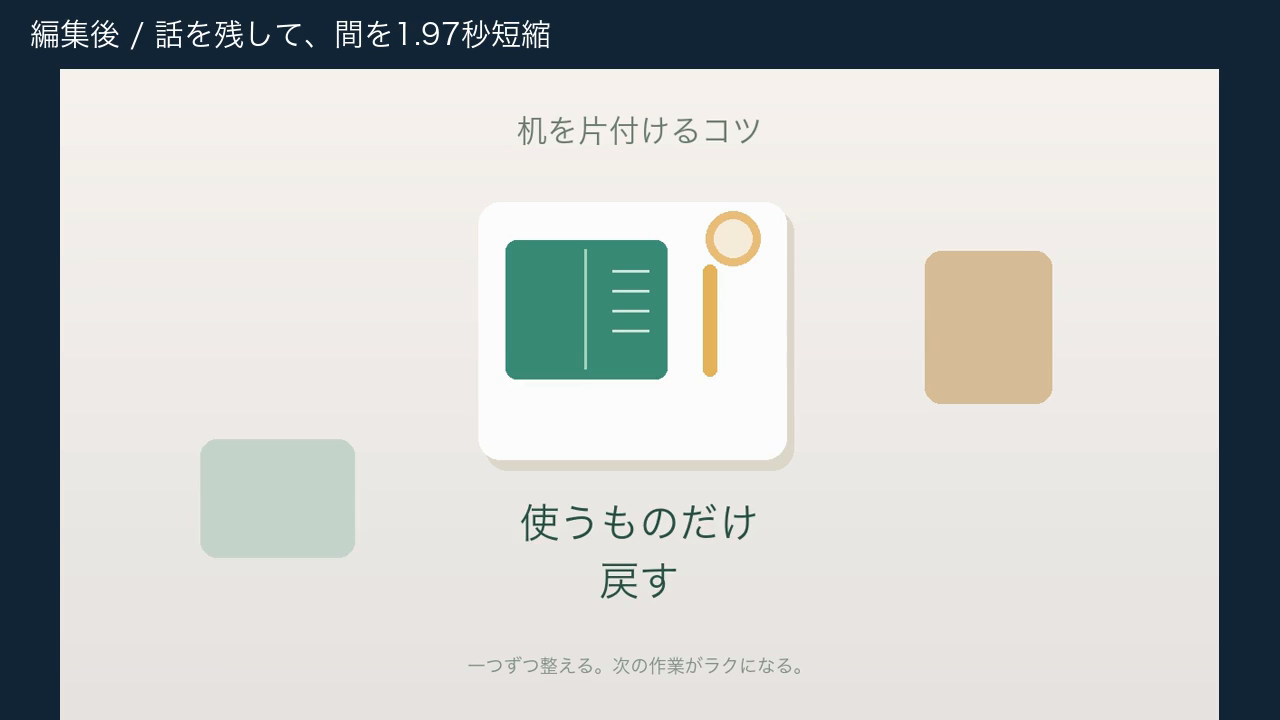
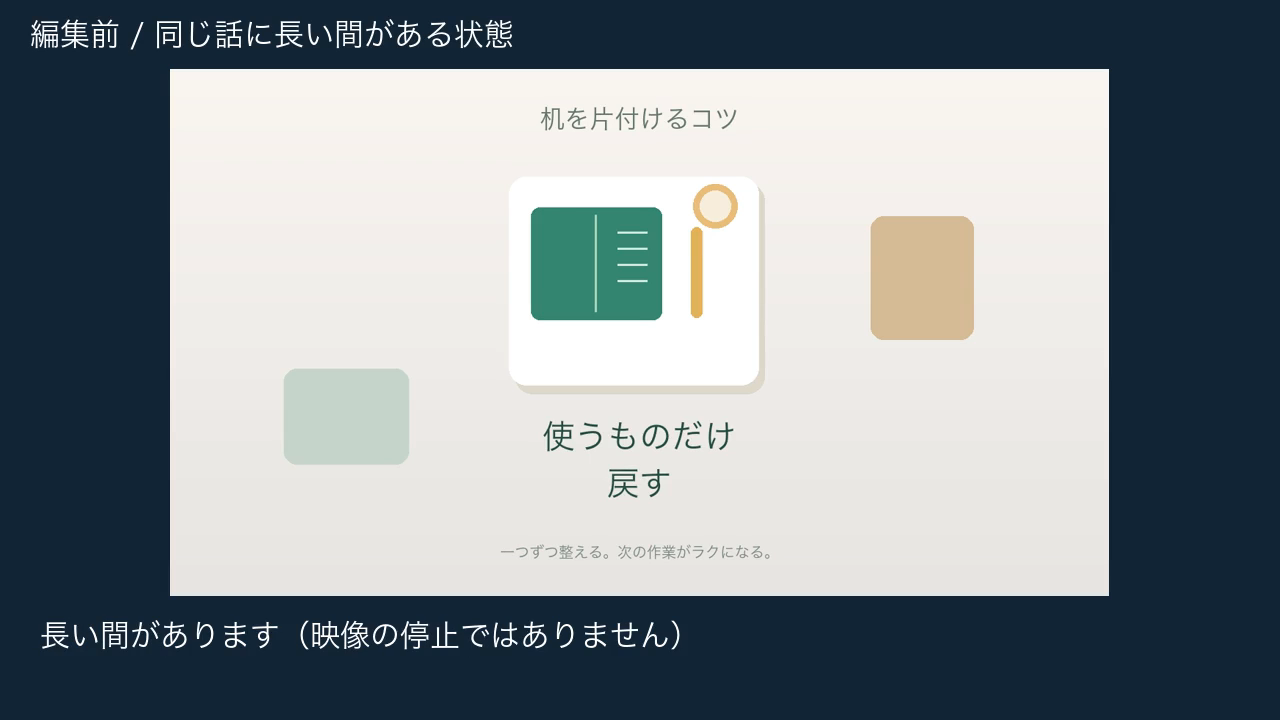
fix(demo): rebuild overview joins and retain complete speech

diff --git a/scripts/build_platform_demos.py b/scripts/build_platform_demos.py
@@ -76,7 +76,7 @@ def card(path, title, subtitle, lines=(), size=(1280, 720), font=None, banner='V
     im.save(path)
 
 
-def make_segment(source, target, log, duration=None, start=0, still=False, label=None, font=None):
+def make_segment(source, target, log, duration=None, start=0, still=False, label=None, font=None, cues=()):
     inputs = ['-loop', '1', '-framerate', '30', '-t', str(duration), '-i', str(source)] if still else ['-ss', str(start), '-i', str(source)]
     if still:
         inputs += ['-f', 'lavfi', '-t', str(duration), '-i', 'anullsrc=r=48000:cl=stereo']
@@ -85,7 +85,7 @@ def make_segment(source, target, log, duration=None, start=0, still=False, label
     filters = ['-vf', vf+','+tail]
     video_map = '0:v:0'
     if label:
-        vf = 'scale=1280:652:force_original_aspect_ratio=decrease,pad=1280:720:(ow-iw)/2:68:color=0x122536,fps=30,setsar=1'
+        vf = f'scale=1280:{528 if cues else 652}:force_original_aspect_ratio=decrease,pad=1280:720:(ow-iw)/2:68:color=0x122536,fps=30,setsar=1'
         overlay = target.with_suffix('.png')
         im = Image.new('RGBA',(1280,720),(0,0,0,0)); draw = ImageDraw.Draw(im)
         draw.rectangle((0,0,1280,68), fill='#122536')
@@ -93,8 +93,47 @@ def make_segment(source, target, log, duration=None, start=0, still=False, label
         inputs += ['-loop','1','-framerate','30','-t',str(duration),'-i',str(overlay)]
         filters = ['-filter_complex',f'[0:v]{vf}[base];[base][1:v]overlay=0:0:shortest=1:format=auto,{tail}[v]']
         video_map = '[v]'
+        if cues:
+            chain = f'[0:v]{vf}[base];[base][1:v]overlay=0:0:shortest=1:format=auto[c0]'
+            for index, cue in enumerate(cues):
+                tile = target.with_name(f'{target.stem}-cue-{index}.png')
+                im = Image.new('RGBA',(1280,720),(0,0,0,0)); draw=ImageDraw.Draw(im)
+                draw.rectangle((0,604,1280,720),fill='#122536')
+                text = '\n'.join(textwrap.wrap(cue['text'], width=38 if any(ord(c)>127 for c in cue['text']) else 68))
+                draw.multiline_text((40,619),text,font=display_font(30,font),fill='white',spacing=8)
+                im.save(tile)
+                inputs += ['-loop','1','-framerate','30','-t',str(duration),'-i',str(tile)]
+                chain += f";[c{index}][{index+2}:v]overlay=0:0:shortest=1:format=auto:enable='gte(t,{cue['start']})*lt(t,{cue['end']})'[c{index+1}]"
+            filters=['-filter_complex',chain+f';[c{len(cues)}]{tail}[v]']
     run(['ffmpeg', '-hide_banner', '-nostdin', '-y', *inputs, '-t', str(duration), '-map', video_map, '-map', '1:a:0' if still else '0:a:0', *filters, '-af', 'aresample=48000', '-c:v', 'libx264', '-preset', 'medium', '-crf', '20', '-c:a', 'aac', '-b:a', '192k', '-ar', '48000', '-ac', '2', '-movflags', '+faststart', str(target)], log)
 
+
+
+def join_segments(clips, target, log):
+    """Decode segments onto an exact frame/sample grid and encode one MP4 stream.
+
+    Stream-copying independently encoded H.264/AAC files preserves incompatible
+    codec state and AAC priming at joins; a full decode alone misses browser issues.
+    """
+    inputs, filters, ordered = [], [], []
+    total_frames = 0
+    for index, clip in enumerate(clips):
+        info = probe(clip)
+        video = next(row for row in info['streams'] if row['codec_type']=='video')
+        frames = int(video['nb_frames'])
+        duration = frames/30
+        total_frames += frames
+        inputs += ['-i',str(clip)]
+        filters += [f'[{index}:v]trim=end_frame={frames},setpts=N/(30*TB),setsar=1[v{index}]',
+                    f'[{index}:a]aresample=48000,apad,atrim=duration={duration},asetpts=N/SR/TB[a{index}]']
+        ordered += [f'[v{index}][a{index}]']
+    filters.append(''.join(ordered)+f'concat=n={len(clips)}:v=1:a=1[v][a]')
+    run(['ffmpeg','-hide_banner','-nostdin','-y',*inputs,'-filter_complex',';'.join(filters),
+         '-map','[v]','-map','[a]','-t',str(total_frames/30),'-r','30','-fps_mode','cfr',
+         '-c:v','libx264','-profile:v','high','-level:v','4.0','-pix_fmt','yuv420p','-preset','medium','-crf','20',
+         '-color_primaries','bt709','-color_trc','bt709','-colorspace','bt709',
+         '-c:a','aac','-b:a','192k','-ar','48000','-ac','2','-movflags','+faststart',str(target)],log)
+    return total_frames
 
 
 def build(sample, out, docs, font=None, youtube_session=None, tiktok_session=None, language=None):
@@ -163,30 +202,36 @@ def build(sample, out, docs, font=None, youtube_session=None, tiktok_session=Non
     for image, key in [(intro, 'intro'), (command, 'command'), (end, 'end')]:
         card(image, *content[key], font=chosen_font, banner=content['banner'])
     # Anchor the matched excerpt to the actual frame-mapped sentence boundary.
-    excerpt_start = max(yt_mapping['sequence'][0]['source_start'], yt_mapping['sequence'][0]['source_end']-1.32)
-    excerpt_end = min(yt_mapping['sequence'][1]['source_end'], yt_mapping['sequence'][1]['source_start']+1.48)
+    excerpt_start = yt_mapping['sequence'][0]['source_start']
+    excerpt_end = yt_mapping['sequence'][-1]['source_end']
     before_duration = excerpt_end-excerpt_start
     after_duration = before_duration-removed_gap
+    script = provenance['voice']['script']
+    before_cues = [{'start':first[0]['start']-excerpt_start,'end':first[-1]['end']-excerpt_start,'text':script[0]},
+                   {'start':first[-1]['end']-excerpt_start,'end':words[split+1]['start']-excerpt_start,'text':'長い間があります（映像の停止ではありません）' if language=='ja' else 'Long pause in the source (not frozen playback)'},
+                   {'start':words[split+1]['start']-excerpt_start,'end':words[-1]['end']-excerpt_start,'text':script[1]}]
+    after_cues = [{'start':first[0]['start']-excerpt_start,'end':first[-1]['end']-excerpt_start,'text':script[0]},
+                  {'start':words[split+1]['start']-excerpt_start-removed_gap,'end':words[-1]['end']-excerpt_start-removed_gap,'text':script[1]}]
     segments = [
-        (intro, 2, 0, True, None),
-        (normalized, before_duration, excerpt_start, False, content['before']),
-        (yt, after_duration, excerpt_start-yt_mapping['sequence'][0]['source_start'], False, content['after'].format(gap=removed_gap)),
-        (command, 3, 0, True, None),
-        (out/f'tiktok-demo-{language}.mp4', float(vertical['duration']), 0, False, content['portrait']),
-        (end, 2.5, 0, True, None),
+        (intro, 2, 0, True, None, ()),
+        (normalized, before_duration, excerpt_start, False, content['before'], before_cues),
+        (yt, after_duration, excerpt_start-yt_mapping['sequence'][0]['source_start'], False, content['after'].format(gap=removed_gap), after_cues),
+        (command, 3, 0, True, None, ()),
+        (out/f'tiktok-demo-{language}.mp4', float(vertical['duration']), 0, False, content['portrait'], ()),
+        (end, 2.5, 0, True, None, ()),
     ]
     clips = []
-    for i,(media,dur,start,still,label) in enumerate(segments):
-        target=out/f'part-{i}.mp4'; make_segment(media,target,out/f'part-{i}.log',dur,start,still,label,chosen_font); clips.append(target)
-    concat = out/'concat.txt'
-    concat.write_text(''.join(f"file '{p.name}'\n" for p in clips))
+    for i,(media,dur,start,still,label,cues) in enumerate(segments):
+        target=out/f'part-{i}.mp4'; make_segment(media,target,out/f'part-{i}.log',dur,start,still,label,chosen_font,cues); clips.append(target)
     overview = out/f'youtube-demo-{language}.mp4'
-    run(['ffmpeg','-hide_banner','-nostdin','-y','-f','concat','-safe','0','-i',str(concat),'-c','copy','-movflags','+faststart',str(overview)],out/'concat.log')
+    expected_frames = join_segments(clips, overview, out/'concat.log')
     outputs={}
     for name,path,dims in [('youtube',overview,(1280,720)),('tiktok',out/f'tiktok-demo-{language}.mp4',(1080,1920)),('youtube-result',out/f'youtube-result-{language}.mp4',(1280,720))]:
         info=probe(path); v=next(s for s in info['streams'] if s['codec_type']=='video')
         if (v['width'],v['height'])!=dims or v['r_frame_rate']!='30/1' or v.get('sample_aspect_ratio')!='1:1' or any(v.get(k)!='bt709' for k in ['color_space','color_transfer','color_primaries']) or not any(s['codec_type']=='audio' and s['codec_name']=='aac' for s in info['streams']):
             raise ValueError(f'{name}: format check failed')
+        if name=='youtube' and (int(v['nb_frames'])!=expected_frames or abs(float(v.get('start_time',0)))>.001):
+            raise ValueError('Overview frame count or zero-based timeline check failed')
         run(['ffmpeg','-hide_banner','-nostdin','-v','error','-i',str(path),'-f','null','-'],out/f'{name}-decode.log')
         outputs[name]={'filename':path.name,'sha256':fingerprint(path)['sha256'],'duration':float(info['format']['duration']),'dimensions':dims,'full_decode':'pass'}
         if name!='youtube-result':
@@ -195,7 +240,7 @@ def build(sample, out, docs, font=None, youtube_session=None, tiktok_session=Non
     palette=out/'palette.png'
     run(['ffmpeg','-hide_banner','-nostdin','-y','-i',str(overview),'-vf','fps=3,scale=480:-2:flags=lanczos,palettegen=max_colors=48',str(palette)],out/'palette.log')
     run(['ffmpeg','-hide_banner','-nostdin','-y','-i',str(overview),'-i',str(palette),'-filter_complex','[0:v]fps=3,scale=480:-2:flags=lanczos[x];[x][1:v]paletteuse=dither=bayer:bayer_scale=4',str(docs/'youtube-preview.gif')],out/'gif.log')
-    result={'language':language,'source_sha256':provenance['source_sha256'],'source_kind':'synthetic','font_sha256':fingerprint(chosen_font)['sha256'] if chosen_font else None,'pause_removed_seconds':removed_gap,'retained_words':{mode: result['retained_words'] for mode, result in renderings.items()},'comparison_source_interval':[excerpt_start,excerpt_end],'outputs':outputs,'human_listening':'not_performed','fcp_gui':'not_performed','platform_playback':'not_performed','screen_recording':False}
+    result={'language':language,'source_sha256':provenance['source_sha256'],'source_kind':'synthetic','font_sha256':fingerprint(chosen_font)['sha256'] if chosen_font else None,'pause_removed_seconds':removed_gap,'retained_words':{mode: result['retained_words'] for mode, result in renderings.items()},'comparison_source_interval':[excerpt_start,excerpt_end],'overview_join':'single_encode_frame_sample_grid','overview_frames':expected_frames,'outputs':outputs,'human_listening':'not_performed','fcp_gui':'not_performed','platform_playback':'not_performed','screen_recording':False}
     (out/'manifest.json').write_text(json.dumps(result,ensure_ascii=False,indent=2)+'\n')
     print(json.dumps(result,ensure_ascii=False,indent=2))
 

diff --git a/tests/test_demo_languages.py b/tests/test_demo_languages.py
@@ -49,3 +49,37 @@ class DemoLanguages(unittest.TestCase):
         labels = json.dumps(module.language_content('en'), ensure_ascii=False)
         self.assertFalse(any('\u3040' <= char <= '\u30ff' or '\u4e00' <= char <= '\u9fff' for char in labels))
         self.assertIn('編集前', module.language_content('ja')['before'])
+
+
+class OverviewTimeline(unittest.TestCase):
+    def test_independent_segments_join_on_one_zero_based_frame_grid(self):
+        import shutil
+        import subprocess
+        if not shutil.which('ffmpeg') or not shutil.which('ffprobe'):
+            self.skipTest('FFmpeg is required for the media regression')
+        with tempfile.TemporaryDirectory() as tmp:
+            root=Path(tmp);clips=[]
+            for index,(color,frames) in enumerate([('red',10),('blue',14)]):
+                clip=root/f'{index}.mp4'
+                subprocess.run(['ffmpeg','-v','error','-nostdin','-y','-f','lavfi','-i',f'color={color}:s=128x72:r=30',
+                                '-f','lavfi','-i','anullsrc=r=48000:cl=stereo','-t',str(frames/30),
+                                '-c:v','libx264','-pix_fmt','yuv420p','-c:a','aac',str(clip)],check=True)
+                clips.append(clip)
+            target=root/'overview.mp4'
+            expected=module.join_segments(clips,target,root/'join.log')
+            info=module.probe(target)
+            video=next(s for s in info['streams'] if s['codec_type']=='video')
+            self.assertEqual(expected,24)
+            self.assertEqual(int(video['nb_frames']),24)
+            self.assertEqual(float(video['start_time']),0)
+            self.assertAlmostEqual(float(video['duration']),.8,places=4)
+            self.assertNotIn('Non-monotonic', (root/'join.log').read_text())
+            packets=json.loads(subprocess.check_output(['ffprobe','-v','error','-show_packets','-show_entries','packet=stream_index,dts_time','-of','json',str(target)]))['packets']
+            for stream in (0,1):
+                times=[float(p['dts_time']) for p in packets if p['stream_index']==stream]
+                self.assertTrue(all(a<b for a,b in zip(times,times[1:])))
+            raw=subprocess.check_output(['ffmpeg','-v','error','-i',str(target),'-f','rawvideo','-pix_fmt','rgb24','-'])
+            stride=128*72*3
+            self.assertEqual(len(raw),stride*24)
+            self.assertGreater(raw[5*stride],200)  # Red before the join.
+            self.assertGreater(raw[15*stride+2],200)  # Blue after the join.

diff --git a/docs/RELEASE_VALIDATION.md b/docs/RELEASE_VALIDATION.md
@@ -4,14 +4,14 @@ The implementation candidate is version `0.1.0a4`; the proposed release tag is `
 
 ## Verified locally
 
-- 131 automated tests passed on macOS/Python 3.11, covering source/provider upload gates, retained transcript timing, session revisions, portrait binding/tamper rejection, 26-boundary pagination, render-bound coverage, moved delivery verification, completion-field contradictions and conservative process recovery when `ps` is unavailable.
+- 132 automated tests passed on macOS/Python 3.11, covering source/provider upload gates, retained transcript timing, session revisions, portrait binding/tamper rejection, 26-boundary pagination, render-bound coverage, moved delivery verification, completion-field contradictions and conservative process recovery when `ps` is unavailable.
 - The wheel installed into an isolated virtual environment outside the checkout; CLI, session commands, preset data, LUT generation and workspace paths passed smoke checks.
 - Three standalone skill formats passed validation. Claude's marketplace manifest passed its local validator. The release inventory includes only the named current artifacts; unrelated old ZIPs are excluded.
 - A separate 608.33-second, 1280×720/30 fps repeated synthetic fixture retained 2,050 tokens in 100 spans. The full render took 170.63 seconds in this environment, produced 492.03 seconds, and resumed with the same output hash. Its 99 boundaries exposed 24 generated auditions and 75 remaining IDs. Audio repetition used an exact PCM sample/frame grid; word timing was deterministically replayed from the measured short fixture, not newly transcribed. A naive AAC loop with duration drift was rejected before the measured run. This is a synthetic scale check, not natural-talk, ProRes or human-listening proof.
 - A fresh fixture copy prepared successfully from the strict public ZIP inventory. Its source hash matches measured timing and provenance, and cloud upload stays denied.
 - Real local CLI renders retained 41 tokens/both tips for YouTube and 17 tokens/one complete tip for TikTok. The derivative uses fit/padding, matching captions and font fingerprints. Both actual MP4 integration bundles reached **synthetic_complete** and passed portable verification. This is a fixture workflow result, not human approval.
 - Separate English/Japanese speech, captions, illustration text and presentation labels were built. Language mismatches fail before generating outputs. English timing was re-measured per original sentence WAV after whole-source timing omitted two zero-duration words; exact PCM offsets map 30 measured words back to the unchanged input. The Japanese fixture retains 41 measured tokens. Both language variants passed full decode/format checks.
-- The Japanese sound-enabled overview is approximately 20 seconds; the YouTube result is 9.77 seconds and the portrait result 4.8 seconds. Full decode, dimensions, audio, 30 fps, square pixels and BT.709 checks passed. Frames were inspected for title clipping and caption overlap and corrected. Actual source and output hashes are in the release's demo manifest/checksums.
+- The repaired Japanese sound-enabled overview is 33.8 seconds (English 35.2 seconds); the YouTube result is 9.77 seconds and the portrait result 4.8 seconds. Full decode, dimensions, audio, 30 fps, square pixels and BT.709 checks passed. Frames were inspected for title clipping and caption overlap and corrected. Overview concatenation now decodes and encodes one stream with zero-based frame/sample timing; strict packet DTS and full-frame regression checks passed. Before/after comparisons retain complete sentences and explicitly label the intentional pause. Actual source and output hashes are in the release's demo manifest/checksums.
 
 ## Agent execution
 

diff --git a/docs/demo/README.md b/docs/demo/README.md
@@ -9,7 +9,7 @@ The two versions use separate speech, captions, illustration text and presentati
 
 These alpha.4 assets remain a draft until the [release gates](../RELEASE_VALIDATION.md) pass. Download URLs become public when that release is published.
 
-Both overviews show the same sequence: promise → matched before/after excerpt → example commands → portrait result → output types. YouTube retains both complete tips and shortens the long pause. TikTok keeps one complete tip, with captions below the preserved landscape illustration. Before/after audio uses the same -18 LUFS normalization target. Sentence anchors and comparison ranges come from each language's own measured timing and frame mapping; token counts and durations are not copied across languages.
+Both overviews show the same sequence: promise → complete before/after sentences → example commands → portrait result → output types. YouTube retains both complete tips and shortens the long pause. TikTok keeps one complete tip, with captions below the preserved landscape illustration. Before/after audio uses the same -18 LUFS normalization target. Sentence anchors and comparison ranges come from each language's own measured timing and frame mapping; token counts and durations are not copied across languages.
 
 English script:
 
@@ -47,3 +47,5 @@ uv run python scripts/build_platform_demos.py --sample output/demo-sample-en \
 To reuse existing sessions, add `--youtube-session PATH --tiktok-session PATH` after rendering with `scripts/render_demo_sample.py`. Existing output directories are never replaced. Use `--font /path/to/font.ttc` to select a local font; Japanese needs Hiragino or Noto Sans CJK. Encoded hashes vary with FFmpeg/fonts; source identity and behavior are the portable checks. Automated fixture selection is recorded as `automation` / `not_human_reviewed`.
 
 Older unlocalised graphics remain historical references; `en/` and `ja/` contain the current README previews.
+
+The repaired overview uses one continuous H.264/AAC encode on an exact 30 fps / 48 kHz grid. It shows complete sentences instead of starting midway through speech. Captions identify the intentional source pause explicitly, so the static illustration is not mistaken for stalled playback. The Japanese overview is 33.8 seconds; English is 35.2 seconds.

diff --git a/CHANGELOG.md b/CHANGELOG.md
@@ -2,6 +2,7 @@
 
 ## v0.1.0-alpha.4 — planned
 
+- Repair overview joins with one frame/sample-aligned encode, complete comparison sentences and visible pause captions.
 - Added the standalone `/youtube` skill for regular YouTube videos, with source-bound pacing, scene-appropriate grading and full-render review.
 - Included YouTube in the Claude plugin, portable skill ZIPs and English/Japanese installation guides.
 - Kept vertical Shorts routed to the existing TikTok workflow and preserved source upload restrictions.
